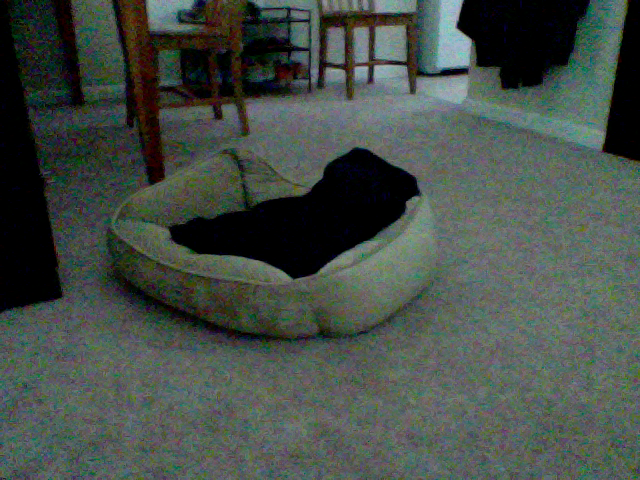
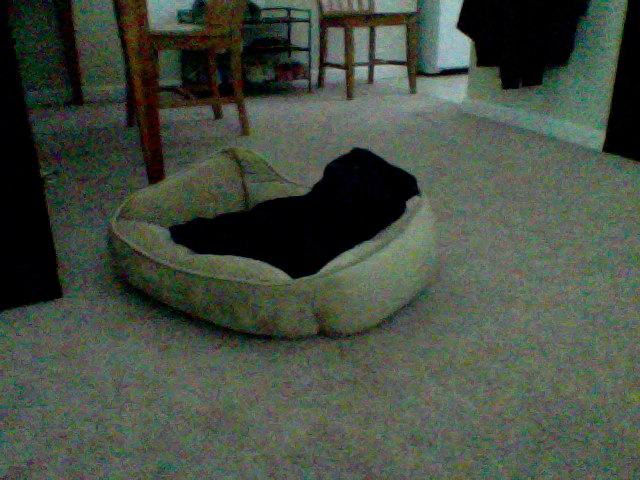
update at Month05Day09Time10:05

diff --git a/index.html b/index.html
@@ -39,8 +39,8 @@
       <!-- Example row of columns -->
       <div class="row">
         <div class="col-md-4">
-	<p>This picture was updated at Month05Day09Time10:04</p>
-		<img src="2_pic.png" />
+	<p>This picture was updated at Month05Day09Time10:05</p>
+		<img src="1_pic.png" />
         </div>
       </div>
 
